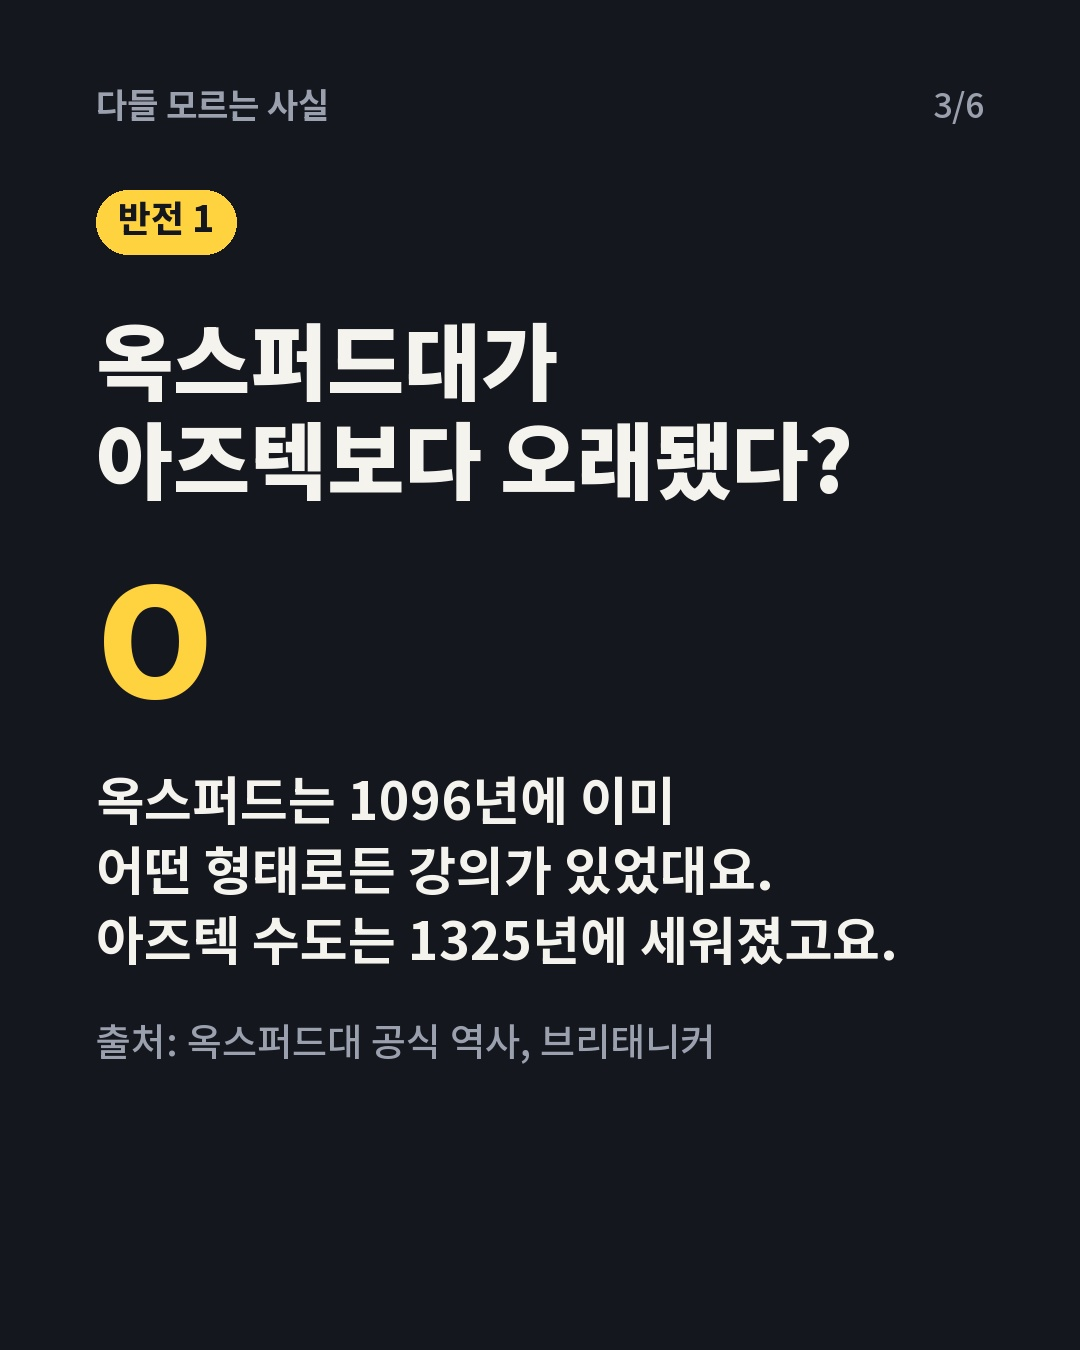
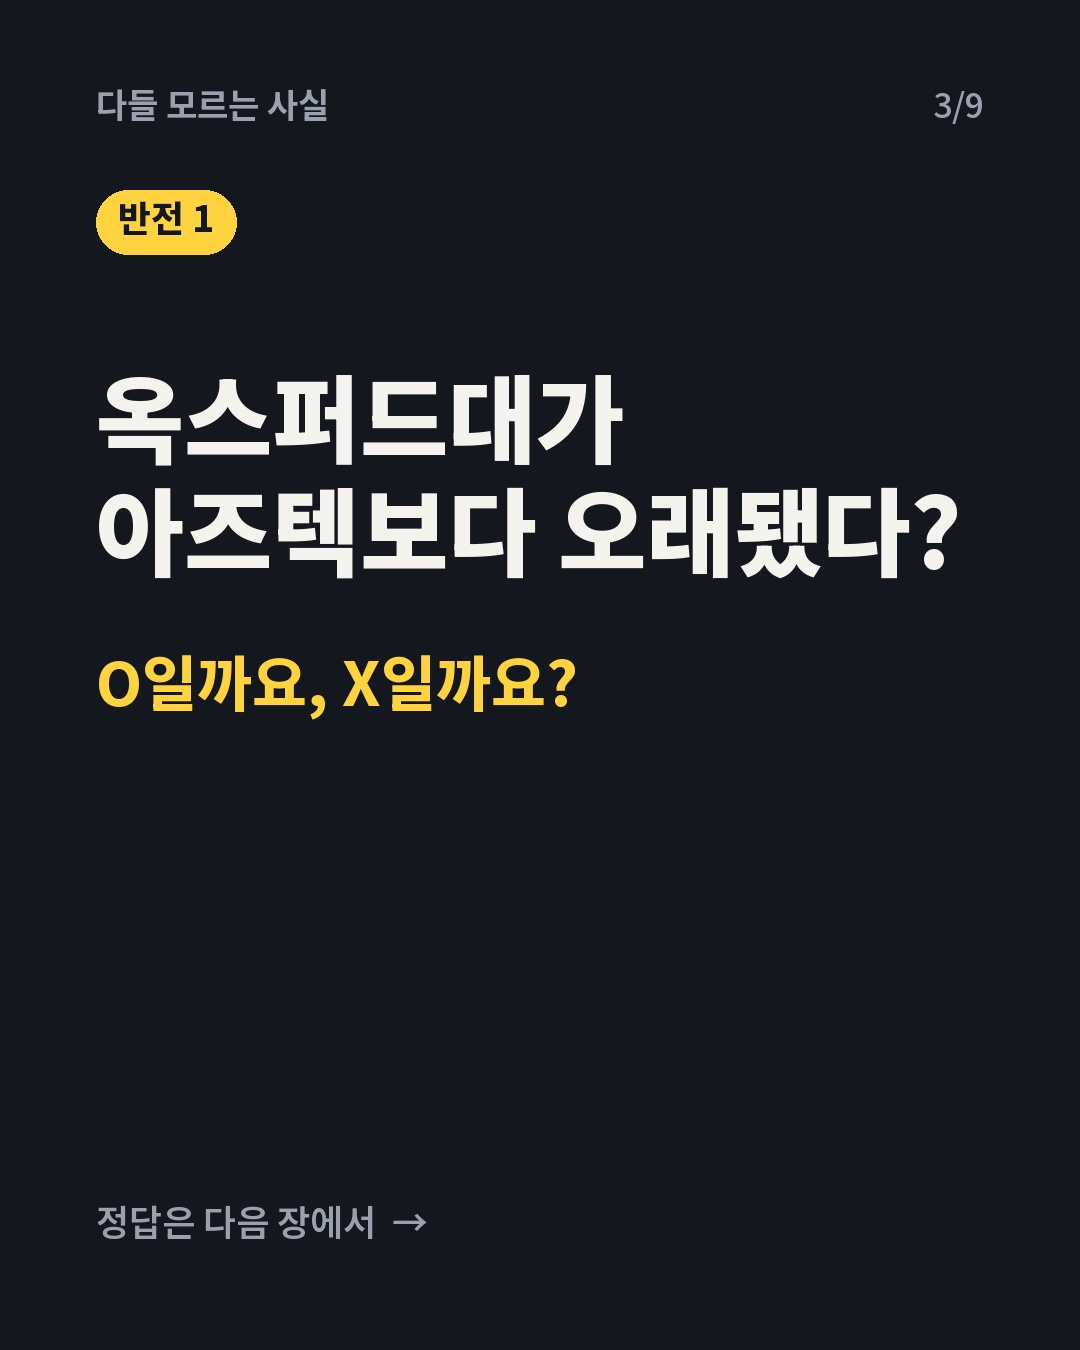
질문/정답 카드 분리, 게시 시각 06:00(운세와 동일), 이미지 raw 주소 사용

diff --git a/worker/src/worker.js b/worker/src/worker.js
@@ -1,10 +1,10 @@
-// sasil.kr 승인 봇: 텔레그램 버튼 -> 인스타 캐러셀 게시 (매일 19:00 KST)
+// sasil.kr 승인 봇: 텔레그램 버튼 -> 인스타 캐러셀 게시 (매일 06:00 KST, 운세 계정과 동일)
 //
 // 흐름
 //   1. 매일 13:00 KST 클라우드 루틴이 다음 날 posts/D/{01..NN.jpg, manifest.json, qa.md}를 GitHub에 push.
-//   2. Cron(5분마다)이 14:00 KST부터 내일 manifest를 발견하면 텔레그램으로 미리보기 + 버튼을 보낸다.
+//   2. Cron(5분마다)이 15:00 KST부터 내일 manifest를 발견하면 텔레그램으로 미리보기 + 버튼을 보낸다.
 //   3. 사장님이 "승인"을 누르면 KV post:D 에 approved 로 기록.
-//   4. D일 19:00 KST부터 cron이 승인된 게시물을 인스타에 올리고 링크를 텔레그램으로 알린다.
+//   4. D일 06:00 KST부터 cron이 승인된 게시물을 인스타에 올리고 링크를 텔레그램으로 알린다.
 //
 // 운세 봇(fortune-ig-bot)을 바탕으로 했지만 계정·저장소·KV·텔레그램 봇이 모두 따로다.
 // Secrets: TELEGRAM_BOT_TOKEN, IG_ACCESS_TOKEN(짤모음 페이지 토큰, 만료 없음), WEBHOOK_SECRET
@@ -16,8 +16,8 @@ const CDN = `https://cdn.jsdelivr.net/gh/${REPO}@main`;
 const IG = "https://graph.facebook.com/v23.0";
 const IG_USER_ID = "17841462639186718"; // sasil.kr
 const KST = 9 * 3600 * 1000;
-const PUBLISH_HOUR = 19;
-const NOTIFY_FROM_HOUR = 14; // 루틴이 13:00에 만들고 push 하므로 14시부터 내일 것을 찾는다
+const PUBLISH_HOUR = 6; // 운세 계정과 같은 시각
+const NOTIFY_FROM_HOUR = 15; // 운세 계정과 같이 15시부터 내일 것을 찾는다 (루틴은 13:00에 push)
 const REMIND_HOUR = 23;
 const WD = ["일", "월", "화", "수", "목", "금", "토"];
 
@@ -145,7 +145,7 @@ async function publishCarousel(env, ymd, m) {
   const token = env.IG_ACCESS_TOKEN;
   const kids = [];
   for (const f of m.files.slice(0, 10)) {
-    const c = await igCall(`${IG}/${IG_USER_ID}/media`, { image_url: `${CDN}/posts/${ymd}/${f}`, is_carousel_item: "true", access_token: token });
+    const c = await igCall(`${IG}/${IG_USER_ID}/media`, { image_url: `${RAW}/posts/${ymd}/${f}`, is_carousel_item: "true", access_token: token });
     kids.push(c.id);
   }
   const car = await igCall(`${IG}/${IG_USER_ID}/media`, { media_type: "CAROUSEL", children: kids.join(","), caption: m.caption, access_token: token });
@@ -177,7 +177,7 @@ async function maybeNotify(env, now) {
   const chat = await owner(env);
   if (!chat) return;
   // 미리보기 사진을 먼저 보낸다. 실패하면 상태를 저장하지 않고 다음 tick에 처음부터 다시 시도한다.
-  const media = m.files.slice(0, 10).map((f) => ({ type: "photo", media: `${CDN}/posts/${target}/${f}` }));
+  const media = m.files.slice(0, 10).map((f) => ({ type: "photo", media: `${RAW}/posts/${target}/${f}` }));
   const mg = await tg(env, "sendMediaGroup", { chat_id: chat, media });
   if (!mg.ok) return;
   p.head = `📅 ${label(target)} sasil.kr 게시물 준비 완료\n🗂 주제: ${m.topic || "-"}\n\n✍ 캡션 앞부분\n${(m.caption || "").split("\n").slice(0, 3).join("\n")}\n\n${await qaLine(target)}\n\n승인하면 ${label(target)} ${PUBLISH_HOUR}시에 자동 게시돼요.`;
@@ -273,6 +273,12 @@ export default {
     if (url.pathname === "/notify" && authed) {
       const d = url.searchParams.get("d");
       if (!isYmd(d)) return new Response("bad d", { status: 400 });
+      if (url.searchParams.get("force") === "1") {
+        // 카드가 바뀌었을 때 새 미리보기로 다시 보낸다. 예전 메시지의 버튼은 끄고, 승인 상태는 초기화한다.
+        const old = await getPost(env, d);
+        if (old.msg_id) await tg(env, "editMessageReplyMarkup", { chat_id: await owner(env), message_id: old.msg_id, reply_markup: { inline_keyboard: [] } });
+        await env.STATE.delete(`post:${d}`);
+      }
       await maybeNotify(env, { ymd: addDays(d, -1), hour: NOTIFY_FROM_HOUR });
       return new Response((await getPost(env, d)).msg_id ? "notified" : "no manifest / no owner");
     }

diff --git a/render_post.py b/render_post.py
@@ -7,7 +7,7 @@
 #   "caption": "인스타 캡션 (해시태그 3개 포함)",
 #   "slides": [
 #     {"type": "cover",   "tag": "지리 반전", "white": "흰 글씨\n두 줄", "yellow": "노란 글씨", "foot": "넘겨보세요  →"},
-#     {"type": "qa",      "tag": "상식 1", "q": "질문?", "verdict": "X", "body": "설명", "note": "출처: ..."},
+#     {"type": "qa",      "tag": "상식 1", "q": "질문?", "verdict": "X", "body": "설명", "note": "출처: ..."},  ← 질문 카드 + 정답 카드 2장이 됨
 #     {"type": "compare", "tag": "비교 1", "title": "A vs B", "rows": [["A", "1.0°", true], ["B", "0.5°", false]], "note": "설명"},
 #     {"type": "plain",   "tag": "그런데 왜?", "title": "제목", "body": "본문", "note": "회색 글씨", "foot": ""},
 #     {"type": "cta",     "accent": "저장해두고 친구한테 보내기", "sub": "팔로우하면\n내일 사실도 볼 수 있어요"}
@@ -57,9 +57,22 @@ def build(s, page, total):
         size = s.get("size", 112)
         check_text(s["white"], size, 900); check_text(s["yellow"], size, 900)
         return RP.cover(page, total, s.get("tag", ""), s["white"], s["yellow"], s.get("foot", "넘겨보세요  →"), size)
-    if t == "qa":
-        check_text(s["q"], 84, 900); check_text(s["body"], 52, 700); check_text(s.get("note", ""), 38, 500)
-        return RP.qa(page, total, s.get("tag", ""), s["q"], s["verdict"], s["body"], s.get("note", ""))
+    if t == "qa_q":  # 질문 카드: 정답은 다음 장
+        check_text(s["q"], 96, 900)
+        im, d = RI.base(page, total, s.get("tag", ""))
+        y = RI.text_block(d, (RI.PAD, 360), s["q"], RI.font(96, 900), RI.INK)
+        RI.text_block(d, (RI.PAD, y + 60), "O일까요, X일까요?", RI.font(60, 800), RI.ACCENT)
+        RI.footer(d, "정답은 다음 장에서  →")
+        return im
+    if t == "qa_a":  # 정답 카드: 질문을 작게 다시 보여주고 판정 + 설명
+        q1 = s["q"].replace("\n", " ")
+        check_text(q1, 40, 600); check_text(s["body"], 52, 700); check_text(s.get("note", ""), 38, 500)
+        im, d = RI.base(page, total, "정답")
+        d.text((RI.PAD, 300), q1, font=RI.font(40, 600), fill=RI.MUTED)
+        d.text((RI.PAD, 370), s["verdict"], font=RI.font(170, 900), fill=RI.ACCENT)
+        y = RI.text_block(d, (RI.PAD, 630), s["body"], RI.font(52, 700), RI.INK, 1.35)
+        RI.text_block(d, (RI.PAD, y + 40), s.get("note", ""), RI.font(38, 500), RI.MUTED, 1.4)
+        return im
     if t == "compare":
         check_text(s["title"], 84, 900); check_text(s.get("note", ""), 48, 700)
         for name, val, _ in s["rows"]:
@@ -80,9 +93,15 @@ def build(s, page, total):
 def main(ymd):
     out = ROOT / "posts" / ymd
     spec = json.loads((out / "spec.json").read_text(encoding="utf-8"))
-    slides = spec["slides"]
+    # qa 하나는 질문 카드 + 정답 카드 2장으로 나눈다 (정답은 넘겨야 보이게)
+    slides = []
+    for s in spec["slides"]:
+        if s["type"] == "qa":
+            slides += [{**s, "type": "qa_q"}, {**s, "type": "qa_a"}]
+        else:
+            slides.append(s)
     if not 3 <= len(slides) <= 10:
-        sys.exit(f"슬라이드 수 {len(slides)}: 3~10장이어야 합니다")
+        sys.exit(f"슬라이드 수 {len(slides)} (qa는 2장으로 계산): 3~10장이어야 합니다")
     cap = spec["caption"]
     if "—" in cap or "–" in cap:
         sys.exit("캡션에 긴 대시(— –)가 있습니다. 쉼표나 마침표로 바꾸세요.")

diff --git a/publish.py b/publish.py
@@ -7,7 +7,7 @@ from pathlib import Path
 
 IG_ID = "17841462639186718"  # sasil.kr
 API = "https://graph.facebook.com/v21.0"
-CDN = "https://cdn.jsdelivr.net/gh/ssong032/sasil-ig-cards@main"
+CDN = "https://raw.githubusercontent.com/ssong032/sasil-ig-cards/main"  # jsDelivr는 같은 이름 파일을 오래 캐시해서 raw 사용
 ROOT = Path(__file__).parent
 
 

diff --git a/GUIDE.md b/GUIDE.md
@@ -1,7 +1,7 @@
 # sasil.kr 매일 게시물 제작 지침 (클라우드 루틴용)
 
 계정: 인스타 @sasil.kr, 브랜드 "다들 모르는 사실". 해외에서 화제가 된 신기한 사실을 **한국어로 새로 정리**하는 계정.
-운영: CEO(사장님) 최종 승인 → 텔레그램 승인 버튼 → 19:00 KST 자동 게시. 매일 1개.
+운영: 13:00 제작 → 15:00 텔레그램 승인 요청 → 사장님 승인 → 다음 날 06:00 KST 자동 게시 (운세 계정과 같은 시각). 매일 1개.
 
 ## 매일 할 일 (D = 내일 날짜, KST)
 1. **조사** (조사·분석부): 웹 검색으로 최근 해외(영어권)에서 화제가 된 "신기한 사실/통념 반전" 소재를 찾는다.
@@ -10,7 +10,8 @@
    - 각 사실마다 **신뢰할 수 있는 출처 2개 이상**(공식 기관, 대학, 브리태니커, 주요 언론, 논문)을 확인한다. 확인 못 한 건 쓰지 않는다.
    - 결과를 `posts/D/brief.md` 에 쓴다: 조사 날짜, 실제 검색 횟수, 소재 후보와 고른 이유, 사실별 출처 URL, 확인/추정 구분.
 2. **제작** (콘텐츠 제작부): `posts/D/spec.json` 작성 (형식은 render_post.py 맨 위 주석).
-   - 5~8장. 1장 cover → 본문(qa/compare/plain) → 마지막 cta.
+   - 7~10장(qa 하나는 질문 카드 + 정답 카드 2장으로 렌더링됨). 1장 cover → 본문(qa/compare/plain) → 마지막 cta.
+   - **질문과 답이 있는 내용은 반드시 qa 타입**으로 쓴다. 질문 카드에서 답을 보여주지 말 것(정답은 넘겨야 보이게).
    - **훅 공식: 통념 뒤집기.** "다들 X라고 알죠? 사실은…" 또는 "A가 B보다 ~하다고?" 형태. 표지는 짧고 강하게.
    - 본문마다 회색 note 에 `출처: ...` 를 넣는다 (계정 약속: "출처를 확인한 내용만").
    - 말투: 친근한 해요체. 과장·단정 금지("대부분 틀려요" 같은 근거 없는 단정 X). 숫자는 "약"으로 반올림 표시.

diff --git a/posts/2026-11-23/qa.md b/posts/2026-11-23/qa.md
@@ -13,3 +13,6 @@
 5. 수정한 문구 (권장 사항 전부 반영 후 재렌더링·넘침 확인 완료)
    - 캡션 첫 줄 비교 대상 명확화, 2번 장 출처(브리태니커) 추가, 3번 장 "기록이 있어요" → "어떤 형태로든 강의가 있었대요", 5번 장 "약…무렵" → "약 3억 8,500만 년 전", 표지 "피라미드 완공보다 … 가까운 시대 사람이에요"
 6. 최종 판정: 게시 가능
+
+---
+2026-11-22 추가: 사장님 요청으로 카드 형식만 변경 (질문 카드와 정답 카드 분리, 6장 → 9장). 문구·사실은 위 검수 내용과 동일. 최종 판정: 게시 가능
